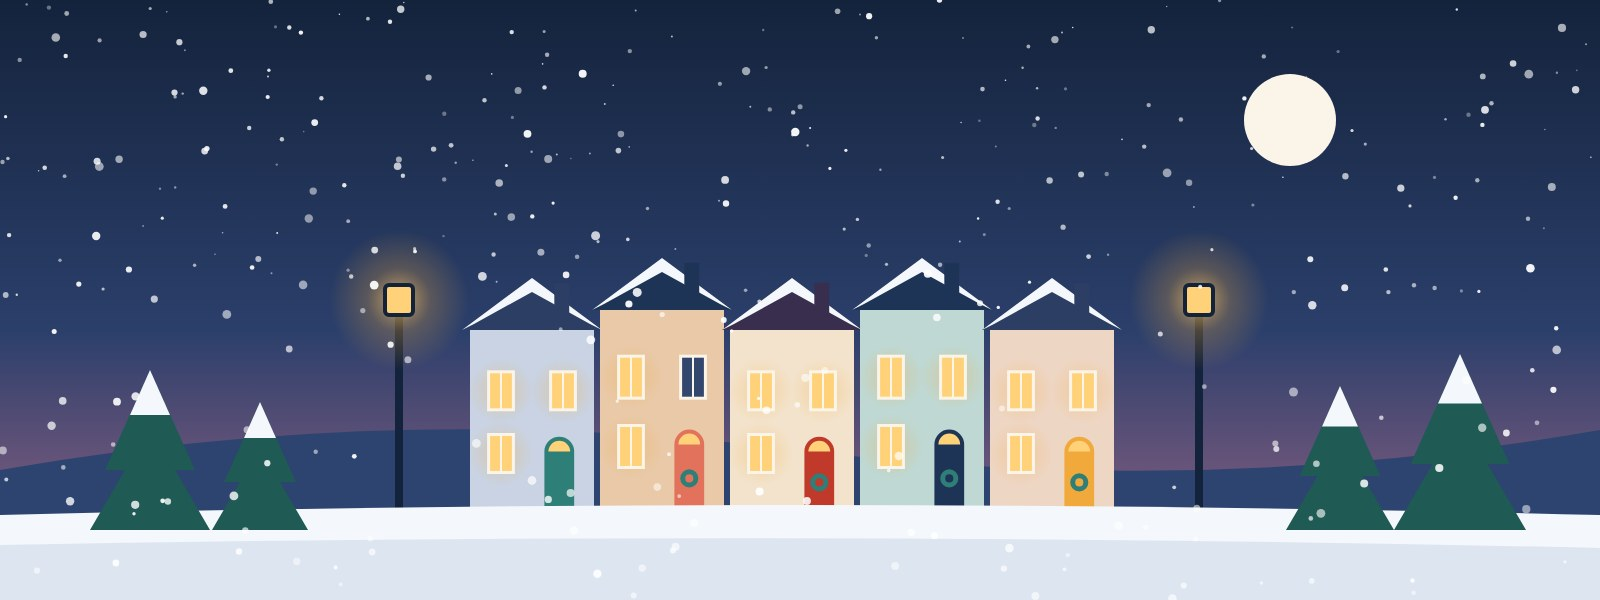
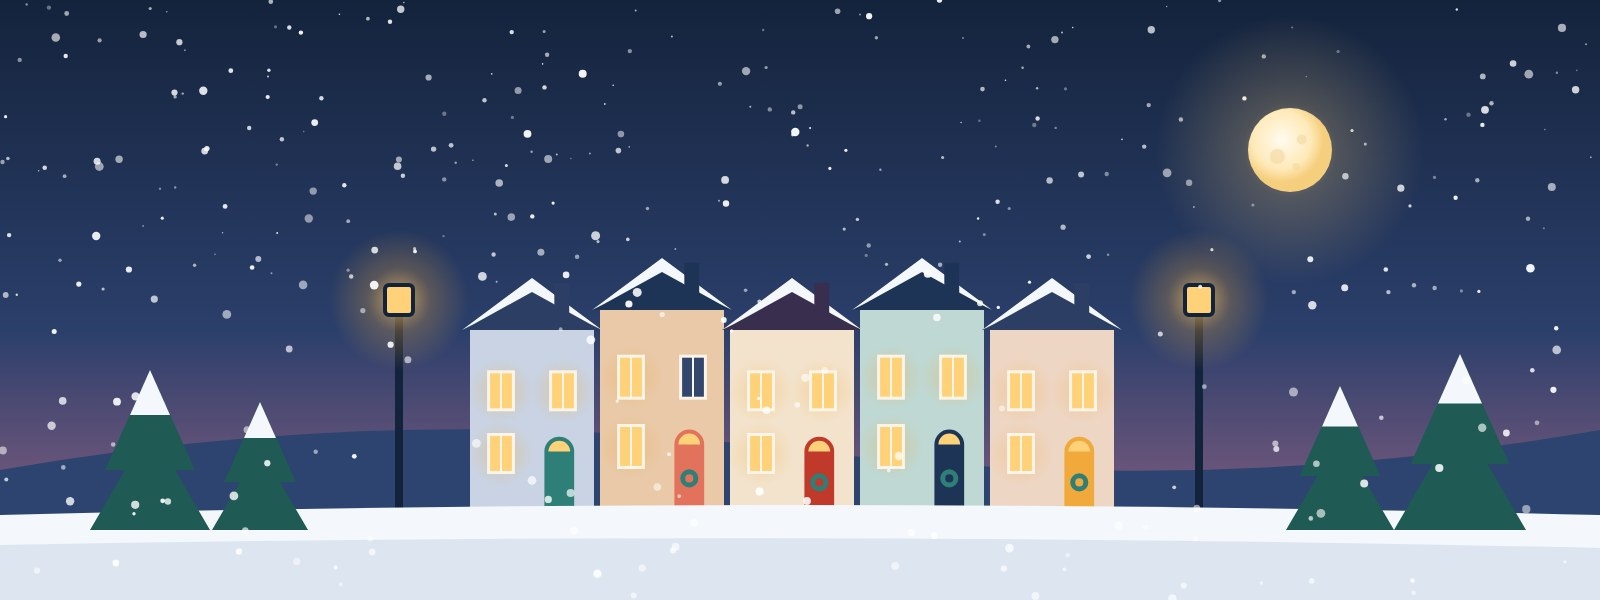
Match CHAMP's per-layout image specs exactly
- Compact: 1200x480, subject centred, lower-left kept clear for logo/headline
- Hero banner: 1920x600, procession across the horizontal middle
- Logos rendered at exactly 240x80
- Warm glowing moon on Classic, Hero banner and Immersive; lanterns kept off the moon
- Immersive: figures now raise their arms to the lantern

Claude-Session: https://claude.ai/code/session_019RTr9YciX3GmnFFFWRKpzV

Changed region(s): [[0.75, 0.09, 0.875, 0.42]]

diff --git a/demo-campaign-images/generate.py b/demo-campaign-images/generate.py
@@ -64,6 +64,18 @@ def person(x, y, h, color, child=False, lantern=False, facing=1):
 def svg(w, h, defs, body):
     return f'<svg xmlns="http://www.w3.org/2000/svg" width="{w}" height="{h}" viewBox="0 0 {w} {h}"><defs>{GLOW_DEFS}{defs}</defs>{body}</svg>'
 
+MOON_DEFS = f'''<radialGradient id="moonhalo"><stop offset="0" stop-color="#FFF4D6" stop-opacity=".55"/>
+<stop offset=".35" stop-color="{GOLD}" stop-opacity=".22"/><stop offset="1" stop-color="{GOLD}" stop-opacity="0"/></radialGradient>
+<radialGradient id="moonface" cx=".4" cy=".38"><stop offset="0" stop-color="#FFFBEF"/><stop offset=".7" stop-color="#FFE9B8"/><stop offset="1" stop-color="#F6CF7E"/></radialGradient>'''
+
+def moon(cx, cy, r):
+    """Warm, glowing moon: reads as a light source even under CHAMP's dark image scrim."""
+    return (f'<circle cx="{cx}" cy="{cy}" r="{r*3.2}" fill="url(#moonhalo)"/>'
+            f'<circle cx="{cx}" cy="{cy}" r="{r}" fill="url(#moonface)"/>'
+            f'<circle cx="{cx-r*.3}" cy="{cy+r*.15}" r="{r*.18}" fill="#F2D49A" opacity=".55"/>'
+            f'<circle cx="{cx+r*.28}" cy="{cy-r*.25}" r="{r*.12}" fill="#F2D49A" opacity=".5"/>'
+            f'<circle cx="{cx+r*.15}" cy="{cy+r*.4}" r="{r*.09}" fill="#F2D49A" opacity=".45"/>')
+
 # ---------------- LOGOS ----------------
 def logo_square():
     w = h = 512
@@ -115,9 +127,9 @@ def classic():
     w, h = 1600, 600
     defs = f'''<linearGradient id="sky" x1="0" y1="0" x2="0" y2="1">
       <stop offset="0" stop-color="{NAVY}"/><stop offset=".55" stop-color="{INDIGO}"/>
-      <stop offset=".85" stop-color="#7A5A7E"/><stop offset="1" stop-color="{CORAL}"/></linearGradient>'''
+      <stop offset=".85" stop-color="#7A5A7E"/><stop offset="1" stop-color="{CORAL}"/></linearGradient>''' + MOON_DEFS
     body = f'<rect width="{w}" height="{h}" fill="url(#sky)"/>' + stars(w, h, 140, 1, 300)
-    body += f'<circle cx="1290" cy="120" r="46" fill="{CREAM}"/><circle cx="1308" cy="108" r="44" fill="{INDIGO}" opacity=".0"/>'
+    body += moon(1290, 150, 42)
     body += f'<path d="M0 470 Q400 400 800 450 T1600 430 V600 H0Z" fill="#2E4470"/>'
     base = 520
     cols = [("#C9D3E3", "#2C3E63"), ("#E9C9A8", NAVY2), ("#F3E3CC", "#3A2E4F"), ("#BFD8D3", NAVY2), ("#EED6C4", "#2C3E63")]
@@ -139,71 +151,70 @@ def classic():
     body += snow(w, h, 220, 7)
     return svg(w, h, defs, body)
 
-# ---------------- COMPACT: Warm meal ----------------
+# ---------------- COMPACT: Warm meal (CHAMP spec 1200x480, lower-left kept clear) ----------------
 def compact():
-    w, h = 1600, 600
+    w, h = 1200, 480
     defs = f'''<linearGradient id="wall" x1="0" y1="0" x2="0" y2="1"><stop offset="0" stop-color="#F7E6CF"/><stop offset="1" stop-color="{CREAM}"/></linearGradient>
     <linearGradient id="bowl" x1="0" y1="0" x2="0" y2="1"><stop offset="0" stop-color="{TEAL}"/><stop offset="1" stop-color="#1F5A55"/></linearGradient>
     <radialGradient id="soup" cx=".5" cy=".4"><stop offset="0" stop-color="#F6B85A"/><stop offset="1" stop-color="#D9822B"/></radialGradient>'''
     body = f'<rect width="{w}" height="{h}" fill="url(#wall)"/>'
     r = random.Random(4)
-    for _ in range(60):
-        body += f'<circle cx="{r.uniform(0,w):.0f}" cy="{r.uniform(0,380):.0f}" r="{r.uniform(3,7):.1f}" fill="{AMBER}" opacity=".18"/>'
-    body += f'<rect y="400" width="{w}" height="200" fill="#C98B5A"/><rect y="400" width="{w}" height="14" fill="#B5764A"/>'
-    for i in range(0, w, 160):
-        body += f'<line x1="{i}" y1="414" x2="{i+40}" y2="600" stroke="#B5764A" stroke-width="3" opacity=".5"/>'
-    # cloth
-    body += f'<path d="M520 470 L1080 470 L1140 600 L460 600Z" fill="{CREAM}"/>'
-    for i in range(8):
-        body += f'<line x1="{540+i*70}" y1="470" x2="{500+i*82}" y2="600" stroke="{CORAL}" stroke-width="6" opacity=".55"/>'
-    body += f'<line x1="500" y1="510" x2="1100" y2="510" stroke="{CORAL}" stroke-width="6" opacity=".55"/><line x1="480" y1="560" x2="1120" y2="560" stroke="{CORAL}" stroke-width="6" opacity=".55"/>'
-    # bowl
-    body += f'<ellipse cx="800" cy="500" rx="210" ry="26" fill="#000" opacity=".12"/>'
-    body += f'<path d="M590 380 Q600 500 800 505 Q1000 500 1010 380 Z" fill="url(#bowl)"/>'
-    body += f'<ellipse cx="800" cy="380" rx="210" ry="40" fill="#1F5A55"/><ellipse cx="800" cy="384" rx="190" ry="30" fill="url(#soup)"/>'
-    body += f'<path d="M640 420 Q800 440 960 420" stroke="{CREAM}" stroke-width="6" fill="none" opacity=".6"/>'
-    for cx, cy in [(740, 380), (820, 372), (860, 392), (770, 396)]:
-        body += f'<circle cx="{cx}" cy="{cy}" r="9" fill="#7FB069"/>'
-    body += f'<circle cx="800" cy="385" r="7" fill="{CREAM}"/><circle cx="700" cy="388" r="6" fill="{CREAM}"/>'
-    # spoon
-    body += f'<path d="M930 370 L1080 250" stroke="#C9CED6" stroke-width="12" stroke-linecap="round"/><ellipse cx="915" cy="380" rx="24" ry="14" fill="#C9CED6" transform="rotate(-38 915 380)"/>'
-    # bread
-    body += f'<path d="M1110 470 Q1120 410 1200 410 Q1280 410 1290 470 Z" fill="#D9963F"/><path d="M1150 430 l20 -10 M1190 425 l20 -10 M1230 430 l20 -10" stroke="#F3C987" stroke-width="6" stroke-linecap="round"/>'
-    # steam
-    for sx in [730, 800, 870]:
-        body += f'<path d="M{sx} 330 C{sx-30} 290 {sx+30} 260 {sx} 220 C{sx-30} 180 {sx+25} 150 {sx} 120" stroke="#fff" stroke-width="10" fill="none" stroke-linecap="round" opacity=".85"/>'
-    # mug left
-    body += f'<rect x="330" y="380" width="110" height="100" rx="14" fill="{CORAL}"/><path d="M440 400 a26 26 0 0 1 0 60" stroke="{CORAL}" stroke-width="14" fill="none"/>'
-    body += f'<ellipse cx="385" cy="382" rx="55" ry="10" fill="#6B3A2A"/>'
-    body += lantern_glyph(385, 435, 52, body=CREAM, frame=NAVY, flame=AMBER, glow=False)
+    for _ in range(45):
+        body += f'<circle cx="{r.uniform(0,w):.0f}" cy="{r.uniform(0,250):.0f}" r="{r.uniform(3,6):.1f}" fill="{AMBER}" opacity=".18"/>'
+    # table: surface starts high so the bowl sits in the upper-middle band
+    T = 275
+    body += f'<rect y="{T}" width="{w}" height="{h-T}" fill="#C98B5A"/><rect y="{T}" width="{w}" height="12" fill="#B5764A"/>'
+    for i in range(0, w, 150):
+        body += f'<line x1="{i}" y1="{T+12}" x2="{i+30}" y2="{h}" stroke="#B5764A" stroke-width="3" opacity=".45"/>'
+    # plain gingham cloth under the bowl (quiet texture where CHAMP's headline sits)
+    body += f'<path d="M380 {T+40} L820 {T+40} L880 {h} L320 {h}Z" fill="{CREAM}"/>'
+    for i in range(7):
+        body += f'<line x1="{400+i*68}" y1="{T+40}" x2="{350+i*85}" y2="{h}" stroke="{CORAL}" stroke-width="5" opacity=".4"/>'
+    body += f'<line x1="360" y1="{T+90}" x2="840" y2="{T+90}" stroke="{CORAL}" stroke-width="5" opacity=".4"/><line x1="340" y1="{T+145}" x2="860" y2="{T+145}" stroke="{CORAL}" stroke-width="5" opacity=".4"/>'
+    # bowl, centred horizontally, upper-middle
+    bx, by = 600, 205
+    body += f'<ellipse cx="{bx}" cy="{by+118}" rx="175" ry="22" fill="#000" opacity=".13"/>'
+    body += f'<path d="M{bx-175} {by} Q{bx-165} {by+118} {bx} {by+122} Q{bx+165} {by+118} {bx+175} {by} Z" fill="url(#bowl)"/>'
+    body += f'<ellipse cx="{bx}" cy="{by}" rx="175" ry="34" fill="#1F5A55"/><ellipse cx="{bx}" cy="{by+3}" rx="158" ry="25" fill="url(#soup)"/>'
+    body += f'<path d="M{bx-135} {by+36} Q{bx} {by+54} {bx+135} {by+36}" stroke="{CREAM}" stroke-width="5" fill="none" opacity=".6"/>'
+    for dx, dy in [(-50, 0), (18, -7), (52, 9), (-25, 12)]:
+        body += f'<circle cx="{bx+dx}" cy="{by+dy}" r="8" fill="#7FB069"/>'
+    body += f'<circle cx="{bx}" cy="{by+4}" r="6" fill="{CREAM}"/><circle cx="{bx-85}" cy="{by+6}" r="5" fill="{CREAM}"/>'
+    body += f'<path d="M{bx+108} {by-8} L{bx+230} {by-105}" stroke="#C9CED6" stroke-width="11" stroke-linecap="round"/><ellipse cx="{bx+96}" cy="{by}" rx="20" ry="12" fill="#C9CED6" transform="rotate(-38 {bx+96} {by})"/>'
+    for sx in [bx-60, bx, bx+60]:
+        body += f'<path d="M{sx} {by-42} C{sx-26} {by-72} {sx+26} {by-98} {sx} {by-128} C{sx-26} {by-156} {sx+22} {by-176} {sx} {by-196}" stroke="#fff" stroke-width="9" fill="none" stroke-linecap="round" opacity=".9"/>'
+    # mug + bread on the RIGHT, so the lower-left corner stays clear for logo/headline
+    body += f'<path d="M870 {T+18} Q878 {T-40} 950 {T-40} Q1022 {T-40} 1030 {T+18} Z" fill="#D9963F"/><path d="M905 {T-14} l18 -9 M942 {T-19} l18 -9 M980 {T-14} l18 -9" stroke="#F3C987" stroke-width="5" stroke-linecap="round"/>'
+    body += f'<rect x="1070" y="{T-70}" width="92" height="86" rx="12" fill="{CORAL}"/><path d="M1162 {T-52} a22 22 0 0 1 0 50" stroke="{CORAL}" stroke-width="12" fill="none"/>'
+    body += f'<ellipse cx="1116" cy="{T-68}" rx="46" ry="8" fill="#6B3A2A"/>'
+    body += lantern_glyph(1116, T-24, 44, body=CREAM, frame=NAVY, flame=AMBER, glow=False)
     return svg(w, h, defs, body)
 
 # ---------------- HERO BANNER: Lantern walk ----------------
 def hero_banner():
-    w, h = 1600, 600
-    # CHAMP renders this layout as a short full-width strip: background-size cover,
-    # position 50% 40%. On a wide desktop only rows ~200-305 of this 600px image show,
-    # so the whole procession (heads to feet) lives in that band.
+    # CHAMP spec: 1920x600, "subject across the horizontal middle". CHAMP renders a thin
+    # strip with background-size cover at 50% 40%, which shows roughly rows 190-320 on a
+    # wide desktop and 165-350 on a laptop, so the procession sits in rows ~205-315.
+    w, h = 1920, 600
     defs = f'''<linearGradient id="sky2" x1="0" y1="0" x2="0" y2="1"><stop offset="0" stop-color="{NAVY}"/>
-    <stop offset=".28" stop-color="#1E3F66"/><stop offset=".4" stop-color="#2D6273"/><stop offset=".5" stop-color="#1C3A57"/></linearGradient>'''
-    body = f'<rect width="{w}" height="{h}" fill="url(#sky2)"/>' + stars(w, h, 200, 11, 230)
-    body += f'<circle cx="1330" cy="160" r="38" fill="{CREAM}" opacity=".95"/><circle cx="1330" cy="160" r="85" fill="{CREAM}" opacity=".07"/>'
-    body += f'<path d="M0 222 Q300 182 620 210 T1200 196 T1600 205 V600 H0Z" fill="#1C3A57"/>'
-    body += f'<path d="M0 262 Q400 228 820 252 T1600 240 V600 H0Z" fill="#162C45"/>'
-    body += f'<rect y="330" width="{w}" height="270" fill="#11233A"/>'
-    body += f'<path d="M-20 300 C300 290 600 280 900 270 S1400 255 1640 248" stroke="#2E4E6E" stroke-width="22" fill="none" stroke-linecap="round"/>'
-    xs = [60, 140, 200, 280, 340, 410, 490, 550, 620, 700, 760, 830, 910, 970, 1040, 1110, 1170, 1240, 1310, 1380, 1450, 1520]
-    hs = [50, 38, 48, 46, 36, 48, 45, 34, 46, 45, 34, 44, 44, 33, 42, 42, 33, 40, 40, 32, 38, 36]
-    for i, (x, hh) in enumerate(zip(xs, hs)):
-        y = 298 - (x / 1600) * 50
-        child = hh < 37
+    <stop offset=".3" stop-color="#1E3F66"/><stop offset=".42" stop-color="#2D6273"/><stop offset=".55" stop-color="#1C3A57"/></linearGradient>''' + MOON_DEFS
+    body = f'<rect width="{w}" height="{h}" fill="url(#sky2)"/>' + stars(w, h, 240, 11, 250)
+    body += moon(1600, 170, 34)
+    body += f'<path d="M0 240 Q360 198 740 226 T1440 212 T1920 222 V600 H0Z" fill="#1C3A57"/>'
+    body += f'<path d="M0 282 Q480 246 980 270 T1920 258 V600 H0Z" fill="#162C45"/>'
+    body += f'<rect y="345" width="{w}" height="255" fill="#11233A"/>'
+    body += f'<path d="M-20 318 C360 308 720 298 1080 288 S1680 272 1960 266" stroke="#2E4E6E" stroke-width="24" fill="none" stroke-linecap="round"/>'
+    xs = list(range(60, 1880, 70))
+    r = random.Random(9)
+    for i, x in enumerate(xs):
+        child = i % 3 == 1
+        hh = r.uniform(34, 38) if child else r.uniform(44, 52)
+        y = 316 - (x / 1920) * 50
         body += person(x, y, hh, "#0B1828", child=child, lantern=(i % 3 != 2) or child)
-    for tx, ts in [(30, .45), (1575, .5), (1500, .38)]:
-        body += f'<g transform="translate({tx},240) scale({ts})"><path d="M0 -160 L45 -60 L25 -60 L60 0 L-60 0 L-25 -60 L-45 -60Z" fill="#0F2236"/></g>'
-    # lantern reflections on a still lake below the walk (visible on taller crops)
-    r = random.Random(12)
+    for tx, ts in [(25, .5), (1890, .55), (1800, .42)]:
+        body += f'<g transform="translate({tx},262) scale({ts})"><path d="M0 -160 L45 -60 L25 -60 L60 0 L-60 0 L-25 -60 L-45 -60Z" fill="#0F2236"/></g>'
     for x in xs:
-        body += f'<ellipse cx="{x+8}" cy="{360 + r.uniform(0, 40):.0f}" rx="9" ry="2.5" fill="{GOLD}" opacity=".25"/>'
+        body += f'<ellipse cx="{x+8}" cy="{378 + r.uniform(0, 40):.0f}" rx="9" ry="2.5" fill="{GOLD}" opacity=".25"/>'
     return svg(w, h, defs, body)
 
 # ---------------- IMAGE LEFT: Home for a family ----------------
@@ -312,9 +323,10 @@ def immersive():
     w, h = 1920, 1080
     defs = f'''<linearGradient id="sky5" x1="0" y1="0" x2="0" y2="1"><stop offset="0" stop-color="#0A1426"/>
     <stop offset=".5" stop-color="{NAVY2}"/><stop offset=".72" stop-color="#3E3F6E"/><stop offset=".78" stop-color="#7D5C78"/></linearGradient>
-    <linearGradient id="lake" x1="0" y1="0" x2="0" y2="1"><stop offset="0" stop-color="#2D3459"/><stop offset="1" stop-color="#0A1426"/></linearGradient>'''
+    <linearGradient id="lake" x1="0" y1="0" x2="0" y2="1"><stop offset="0" stop-color="#2D3459"/><stop offset="1" stop-color="#0A1426"/></linearGradient>''' + MOON_DEFS
     body = f'<rect width="{w}" height="{h}" fill="url(#sky5)"/>' + stars(w, h, 380, 41, 760)
-    body += f'<circle cx="1560" cy="190" r="70" fill="{CREAM}"/><circle cx="1560" cy="190" r="160" fill="{CREAM}" opacity=".05"/>'
+    MX, MY, MR = 1600, 200, 62
+    body += moon(MX, MY, MR)
     horizon = 820
     body += f'<path d="M0 {horizon} L0 760 Q160 700 320 740 Q520 660 760 735 Q980 690 1180 745 Q1420 680 1640 735 Q1800 710 1920 750 L1920 {horizon} Z" fill="#141E36"/>'
     body += f'<rect y="{horizon}" width="{w}" height="{h-horizon}" fill="url(#lake)"/>'
@@ -325,6 +337,8 @@ def immersive():
         y = r.uniform(80, horizon-40)
         depth = (y / horizon)
         s = 0.35 + depth * 0.95 * r.uniform(.7, 1.1)
+        if math.hypot(x - MX, y - MY) < MR * 2.4:
+            continue  # keep the moon clear of lanterns
         lanterns.append((y, x, s))
     for y, x, s in sorted(lanterns):
         body += sky_lantern(x, y, s, 0.55 + 0.45*(y/horizon))
@@ -343,7 +357,9 @@ def immersive():
     body += person(180, 962, 150, "#070D1A")
     body += person(260, 962, 100, "#070D1A", child=True, facing=-1)
     body += sky_lantern(232, 760, 1.6)
-    body += f'<path d="M205 840 L225 800 M282 875 L240 800" stroke="#070D1A" stroke-width="10" stroke-linecap="round"/>'
+    # adult and child each raise one arm from the shoulder to the lantern's base
+    body += f'<path d="M198 852 Q206 826 220 802" stroke="#070D1A" stroke-width="9" fill="none" stroke-linecap="round"/>'
+    body += f'<path d="M248 890 Q244 846 242 804" stroke="#070D1A" stroke-width="7" fill="none" stroke-linecap="round"/>'
     body += person(420, 962, 140, "#070D1A", facing=-1)
     body += sky_lantern(380, 700, 1.3)
     return svg(w, h, defs, body)
@@ -356,15 +372,17 @@ def logo_3x1(text_col, tag_col, tile, glyph_body):
     <text x="258" y="196" font-family="Inter" font-weight="600" font-size="52" fill="{tag_col}" letter-spacing="6">TRUST</text>'''
     return svg(w, h, "", body)
 
+# (filename, scene, output width, output height, format). Sizes follow CHAMP's
+# per-layout "How your image sits in this layout" recommendations exactly.
 JOBS = [
-    ("lantern-trust-logo-240x80-light.png", lambda: logo_3x1(CREAM, AMBER, AMBER, NAVY), 720, 240, "png"),
-    ("lantern-trust-logo-240x80-dark.png", lambda: logo_3x1(NAVY, CORAL, NAVY, AMBER), 720, 240, "png"),
+    ("lantern-trust-logo-240x80-light.png", lambda: logo_3x1(CREAM, AMBER, AMBER, NAVY), 240, 80, "png"),
+    ("lantern-trust-logo-240x80-dark.png", lambda: logo_3x1(NAVY, CORAL, NAVY, AMBER), 240, 80, "png"),
     ("lantern-trust-logo-square.png", logo_square, 512, 512, "png"),
     ("lantern-trust-logo-wide.png", logo_wide, 1200, 320, "png"),
     ("lantern-trust-logo-wide-light.png", logo_wide_light, 1200, 320, "png"),
     ("classic-christmas-appeal-1600x600.jpg", classic, 1600, 600, "jpeg"),
-    ("compact-warm-meal-1600x600.jpg", compact, 1600, 600, "jpeg"),
-    ("hero-banner-lantern-walk-1600x600.jpg", hero_banner, 1600, 600, "jpeg"),
+    ("compact-warm-meal-1200x480.jpg", compact, 1200, 480, "jpeg"),
+    ("hero-banner-lantern-walk-1920x600.jpg", hero_banner, 1920, 600, "jpeg"),
     ("image-left-a-home-1120x1280.jpg", image_left, 1120, 1280, "jpeg"),
     ("image-right-winter-coats-1120x1280.jpg", image_right, 1120, 1280, "jpeg"),
     ("immersive-light-a-lantern-1920x1080.jpg", immersive, 1920, 1080, "jpeg"),
@@ -376,7 +394,9 @@ if __name__ == "__main__":
         for name, fn, w, h, fmt in JOBS:
             pg = b.new_page(viewport={"width": w, "height": h})
             bg = "transparent" if fmt == "png" else "#000"
-            pg.set_content(f'<html><body style="margin:0;background:{bg}">{fn()}</body></html>')
+            # the svg is scaled to the output size (logos are drawn at 3x and rendered at 240x80)
+            pg.set_content(f'<html><head><style>svg{{display:block;width:{w}px;height:{h}px}}</style></head>'
+                           f'<body style="margin:0;background:{bg}">{fn()}</body></html>')
             kw = {"type": fmt, "full_page": False, "omit_background": fmt == "png"}
             if fmt == "jpeg": kw["quality"] = 88
             pg.screenshot(path=str(OUT / name), **kw)

diff --git a/README.md b/README.md
@@ -1,12 +1,12 @@
 # Lantern Trust – CHAMP demo campaign images
 
-Fictional charity artwork for demoing each CHAMP donation-page layout.
+Fictional charity artwork for demoing each CHAMP donation-page layout. Every image matches the size and composition guidance CHAMP shows under "How your image sits in this layout".
 
 | Layout | Image | Size |
 |---|---|---|
 | Classic | classic-christmas-appeal-1600x600.jpg | 1600×600 |
-| Compact | compact-warm-meal-1600x600.jpg | 1600×600 |
-| Hero banner | hero-banner-lantern-walk-1600x600.jpg | 1600×600 |
+| Compact | compact-warm-meal-1200x480.jpg | 1200×480 |
+| Hero banner | hero-banner-lantern-walk-1920x600.jpg | 1920×600 |
 | Image left | image-left-a-home-1120x1280.jpg | 1120×1280 |
 | Image right | image-right-winter-coats-1120x1280.jpg | 1120×1280 |
 | Immersive | immersive-light-a-lantern-1920x1080.jpg | 1920×1080 |
